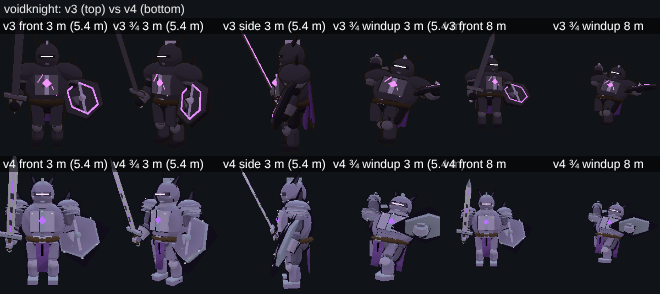
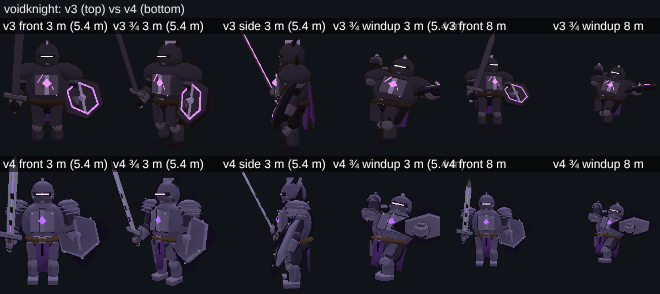
mobmodels: fix round 1 — dark void palette for voidknight/wolf/wraith, LOD distance from current root position
Claude-Session: https://claude.ai/code/session_01P3YgZoXzBKsrUJowNLocSe

diff --git a/src/enemies/mobs/voidknight.js b/src/enemies/mobs/voidknight.js
@@ -5,8 +5,8 @@
 // there is no black on black; trim #8C93B8.
 import { P, S, C, K, B, CAP, T, CARD, OCT, both, humanoid2, bone, mixInto } from './rig.js';
 
-const VK = { base: 0x3b3550, plate: 0x7a72a0, plateLight: 0x9890bc, trim: 0x8c93b8, trimLight: 0xb8bedc, cloth: 0x6a4498, clothDark: 0x4a3070, leather: 0x4a382c,
-  rivet: 0xc8cce0, void: 0xb36bff, core: 0xf0d8ff, blade: 0x7a7ea0, bladeEdge: 0xc4c8e0 };
+const VK = { base: 0x1c1828, plate: 0x4a4366, plateLight: 0x5c547a, trim: 0x6a6490, trimLight: 0x8c88b4, cloth: 0x4c2c74, clothDark: 0x2e1c4a, leather: 0x4a382c,
+  rivet: 0x9894b4, void: 0xb36bff, core: 0xf0d8ff, blade: 0x464860, bladeEdge: 0x9ca2c4 };
 const HIP = 1.02;
 
 /** Plate painter: lighter trim band where the normal turns away from the plate face (bevel/edge rim). */
@@ -40,7 +40,7 @@ export function voidknightDef() {
     rivets('arm' + s2, [[sx * 0.1, 0.2, 0.2], [sx * 0.1, 0.2, -0.2]], 0.02);
   }
   // ---------------------------------------------------------------- pelvis: belt, faulds, tabard front/back (springs)
-  add(P('rig', S(0.34, 10, 8), 0x5a5478, [0, 0, 0], [0, 0, 0], [1.15, 0.7, 0.95]));
+  add(P('rig', S(0.34, 10, 8), 0x2c2840, [0, 0, 0], [0, 0, 0], [1.15, 0.7, 0.95]));
   add(P('rig', T(0.36, 0.06, 16, 4), VK.leather, [0, 0.06, 0], [Math.PI / 2, 0, 0]));
   add(P('rig', B(0.15, 0.12, 0.06), VK.trim, [0, 0.06, 0.35]));
   add(...both([P('rig', B(0.26, 0.42, 0.05), plateCol(VK.plate), [-0.22, -0.22, 0.2], [0.1, 0, 0.12])]));          // faulds
@@ -57,8 +57,8 @@ export function voidknightDef() {
   glow.push(P('neck', B(0.28, 0.03, 0.02), VK.core, [0, 0.14, 0.275], [0, 0, 0], [1, 1, 1], { glowK: 1.15, eyeball: true }));        // visor
   // ---------------------------------------------------------------- arms: mail sleeve + plate vambrace + gauntlets with fingers
   for (const s2 of ['R', 'L']) {
-    add(P('arm' + s2, CAP(0.13, 0.22, 8, 2), 0x5a5478, [0, -0.18, 0], [0, 0, 0], [1, 1, 1], { blend: { axis: '-y', band: 0.07 } }));
-    add(P('fore' + s2, CAP(0.12, 0.18, 8, 2), 0x5a5478, [0, -0.16, 0], [0, 0, 0], [1, 1, 1], { blend: { axis: '-y', band: 0.06 } }));
+    add(P('arm' + s2, CAP(0.13, 0.22, 8, 2), 0x2c2840, [0, -0.18, 0], [0, 0, 0], [1, 1, 1], { blend: { axis: '-y', band: 0.07 } }));
+    add(P('fore' + s2, CAP(0.12, 0.18, 8, 2), 0x2c2840, [0, -0.16, 0], [0, 0, 0], [1, 1, 1], { blend: { axis: '-y', band: 0.06 } }));
     add(P('fore' + s2, C(0.16, 0.13, 0.24, 8), plateCol(VK.plateLight), [0, -0.24, 0]));
     add(P('fore' + s2, T(0.155, 0.014, 10, 3), VK.trim, [0, -0.13, 0], [Math.PI / 2, 0, 0], [1, 1, 1], { small: true }));
     add(P('fore' + s2, S(0.1, 8, 6), plateCol(VK.plate), [0, 0.0, 0.0], [0, 0, 0], [1.05, 0.8, 1.1]));                 // couter
@@ -68,7 +68,7 @@ export function voidknightDef() {
   }
   // ---------------------------------------------------------------- legs: cuisses, knee cops, greaves, sabatons
   for (const s2 of ['R', 'L']) {
-    add(P('leg' + s2, CAP(0.15, 0.2, 8, 2), 0x5a5478, [0, -0.18, 0], [0, 0, 0], [1, 1, 1], { blend: { axis: '-y', band: 0.07 } }));
+    add(P('leg' + s2, CAP(0.15, 0.2, 8, 2), 0x2c2840, [0, -0.18, 0], [0, 0, 0], [1, 1, 1], { blend: { axis: '-y', band: 0.07 } }));
     add(P('leg' + s2, B(0.22, 0.32, 0.08), plateCol(VK.plate), [0, -0.17, 0.13]));
     add(P('knee' + s2, CAP(0.13, 0.2, 8, 2), plateCol(VK.plate), [0, -0.17, 0], [0, 0, 0], [1, 1, 1], { blend: { axis: '-y', band: 0.06 } }));
     add(P('knee' + s2, S(0.12, 8, 6), plateCol(VK.plateLight), [0, -0.01, 0.1], [0, 0, 0], [1, 1, 0.8]));

diff --git a/tools/playtest4/mobmodels.js b/tools/playtest4/mobmodels.js
@@ -417,8 +417,11 @@ module.exports = async function mobmodels(PT) {
         const s = lu[k].sides;
         PT.check(`outline visible on 4 sides on the Elderwood floor: ${k}`, s.L >= 0.5 && s.R >= 0.5 && s.T >= 0.5 && s.B >= 0.5, s);
       }
-      for (const k of ['wolf', 'wolf:alpha', 'voidknight', 'wraith']) if (lu[k]) PT.check(`${k} body mean luma ${lu[k].luma} ≥ 0.18 linear (Elderwood)`, lu[k].luma >= 0.18, lu[k]);
-      PT.check('every body mean luma ≥ 0.12 linear (Elderwood)', keys.every((k) => lu[k].luma >= 0.12), Object.fromEntries(keys.map((k) => [k, lu[k].luma])));
+      // fix round 1 (docs/v4/review.md): the void species are dark again (v3 identity), so their body luma sits in a 0.06–0.16 band — read by the
+      // 4-side outline above and the violet rune/crack/eye accents, not by a light albedo (the old ≥ 0.18 gate is what washed them out to grey).
+      const VOID = ['wolf', 'wolf:alpha', 'voidknight', 'wraith'];
+      for (const k of VOID) if (lu[k]) PT.check(`${k} body mean luma ${lu[k].luma} in 0.06..0.16 linear (dark void identity, not black; Elderwood)`, lu[k].luma >= 0.06 && lu[k].luma <= 0.16, lu[k]);
+      PT.check('every other body mean luma ≥ 0.12 linear (Elderwood)', keys.filter((k) => !VOID.includes(k)).every((k) => lu[k].luma >= 0.12), Object.fromEntries(keys.map((k) => [k, lu[k].luma])));
     }
     PT.check('no page errors (S-elderwood)', pe.errors().length === 0, pe.errors().slice(0, 5));
   }

diff --git a/src/enemies/mobs/wolf.js b/src/enemies/mobs/wolf.js
@@ -1,11 +1,11 @@
 // 타락 늑대 (wolf, pack of 3) v4 model (PLAN v4 §4.6). Owned by mobmodels.
-// Quadruped rig (v3 names rig, neck, jaw, legs[i].up/low, tail1, tail2 + paws, tail3, ears, mane): lighter palette — slate grey-violet
-// body #5E5A72, pale muzzle + chest blaze #B9B3C8, dark back stripe; fur-tuft clusters on the neck, shoulders and tail; 3-bone tail
+// Quadruped rig (v3 names rig, neck, jaw, legs[i].up/low, tail1, tail2 + paws, tail3, ears, mane): dark void palette — charcoal-violet
+// body #434056, toned muzzle + chest blaze #8C86A2, dark back stripe; fur-tuft clusters on the neck, shoulders and tail; 3-bone tail
 // (tail3 spring); ear springs; visible fangs; larger eyes with glowing amber irises; void cracks on the flanks that swell during the
 // crouch (glow). Variant 'alpha': bigger mane and a white scar.
 import { P, S, C, K, CAP, TUBE, both, eye, quadruped, bone, curve, mixInto } from './rig.js';
 
-const WF = { fur: 0x6a6682, furDark: 0x58546e, stripe: 0x4c4864, pale: 0xb9b3c8, paleDark: 0xa49eb6, mane: 0x5a5572, sheen: 0x7a7692, claw: 0xe0dae8, nose: 0x1e1a26,
+const WF = { fur: 0x434056, furDark: 0x363348, stripe: 0x221e2c, pale: 0x8c86a2, paleDark: 0x6c6684, mane: 0x2c2838, sheen: 0x524e68, claw: 0xe0dae8, nose: 0x1e1a26,
   mouth: 0x3a1a2a, void: 0xb06aff, eye: 0xffb347, scar: 0xece8f4, inner: 0x9a7a96 };
 
 export function wolfDef(opts = {}) {

diff --git a/src/enemies/mobs/wraith.js b/src/enemies/mobs/wraith.js
@@ -6,7 +6,7 @@
 import * as THREE from 'three';
 import { P, S, C, K, CAP, T, TUBE, CARD, OCT, FN, both, humanoid2, bone, curve, mixInto } from './rig.js';
 
-const WR = { robe: 0x8a7eac, robeDark: 0x6a5e8c, robeDeep: 0x4e4470, trim: 0xb49ad8, bone: 0xe2dcec, boneDark: 0xb4aac4, chain: 0x9aa0b4, chainDark: 0x6a6e80,
+const WR = { robe: 0x4e4270, robeDark: 0x3a3056, robeDeep: 0x1e1630, trim: 0x8a6cbc, bone: 0xe2dcec, boneDark: 0xb4aac4, chain: 0x5c6076, chainDark: 0x3a3c4e,
   hollow: 0x1a1226, void: 0xb36bff, core: 0xe6c8ff };
 const HIP = 1.15;
 

diff --git a/src/enemies/mobs/rig.js b/src/enemies/mobs/rig.js
@@ -756,6 +756,7 @@ function updateModel(m, st, springs, dt, rnd) {
   // ---- LOD + outline distance (hysteresis 1 m)
   const cam = g?.camera;
   if (cam) {
+    m.root.updateWorldMatrix(true, false);   // a move this frame is not in matrixWorld until render: read the current position
     const e = m.root.matrixWorld.elements, cp = cam.position;
     const dx = e[12] - cp.x, dy = e[13] - cp.y, dz = e[14] - cp.z, d = Math.sqrt(dx * dx + dy * dy + dz * dz);
     const D = lodDistances(), lodD = D.lod, olD = D.outline;

diff --git a/docs/v4/notes/mobmodels.md b/docs/v4/notes/mobmodels.md
@@ -62,6 +62,14 @@ Branch `v4/mobmodels` (from `core-p0a`), worktree `/home/user/wt4/mobmodels`. Ta
   framed at the distance that fits, labelled) + `wolf_alpha.png` + `chuchu_variants.png`, each ≤ 150 KB.
 
 ## Palette deviations (documented)
+- **Fix round 1 (docs/v4/review.md mobs table)**: voidknight, wolf and wraith albedo darkened back to the v3 void identity (wolf fur `#434056`,
+  stripe `#221E2C`, muzzle `#8C86A2`; knight plate `#4A4366`/`#5C547A`, recess `#1C1828`, joints `#2C2840`, cloth `#4C2C74`; wraith robe `#4E4270`/`#3A3056`/`#1E1630`).
+  Violet runes / cracks / eye glow are unchanged and stay the bright accents. Elderwood body luma now 0.063–0.094 (was 0.184–0.209): the PLAN §1
+  "≥ 0.18" readability row is what washed them to light grey/lavender, so the playtest gate for these four is now a 0.06–0.16 band (dark, not black)
+  and readability rests on the 4-side outline check (still passing) and the accents; every other body keeps ≥ 0.12. Integrator: the PLAN §1 row conflicts with the review.
+- LOD / outline distance now reads the root position after `updateWorldMatrix(true, false)` (was the stale matrixWorld before the first render
+  after a move → LOD on the first frame after a spawn/teleport).
+The entries below are superseded for these three species:
 - wolf flank fur `#6A6682` instead of `#5E5A72` (with `#5E5A72` the body measured 0.168–0.177 < 0.18 on the Elderwood floor); muzzle/chest `#B9B3C8` as specified.
 - voidknight: `#3B3550` only in recesses; plate faces `#7A72A0`/`#9890BC`, trim `#8C93B8` (`#3B3550`-dominant plates measured 0.129).
 
